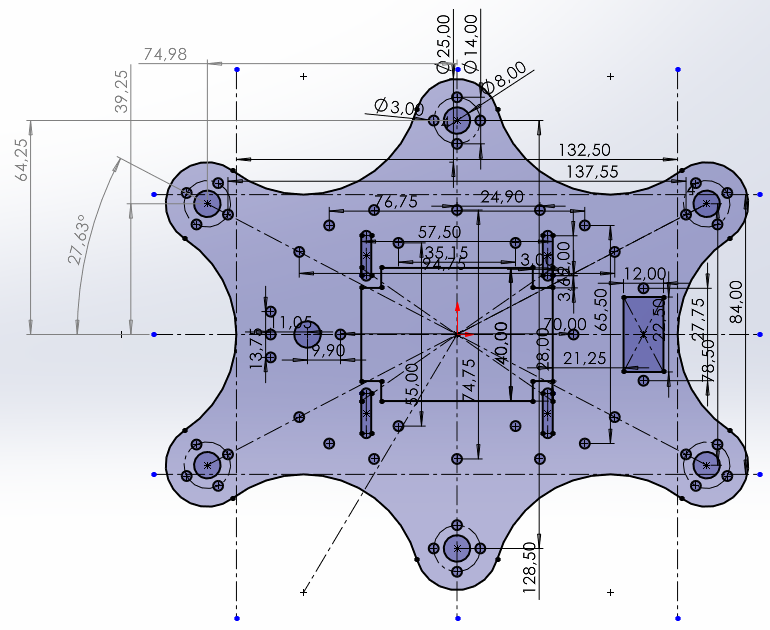
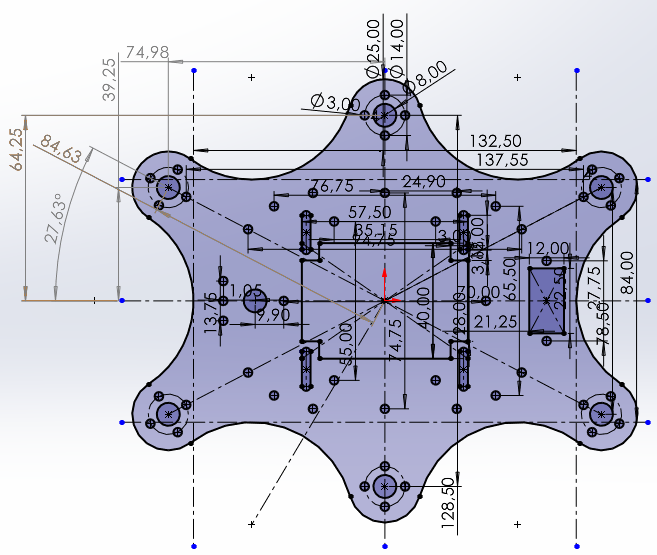
notes updaet

diff --git a/notes.md b/notes.md
@@ -1,5 +1,8 @@
 X-MRA как "eXperimental Modular Robotic Arachnid"
 
+SSH key auth
+    eval "$(ssh-agent -s)"
+    ssh-add ~/.ssh/id_ed25519_gitLab.txt
 
 debian 12
 libcamera-hello
